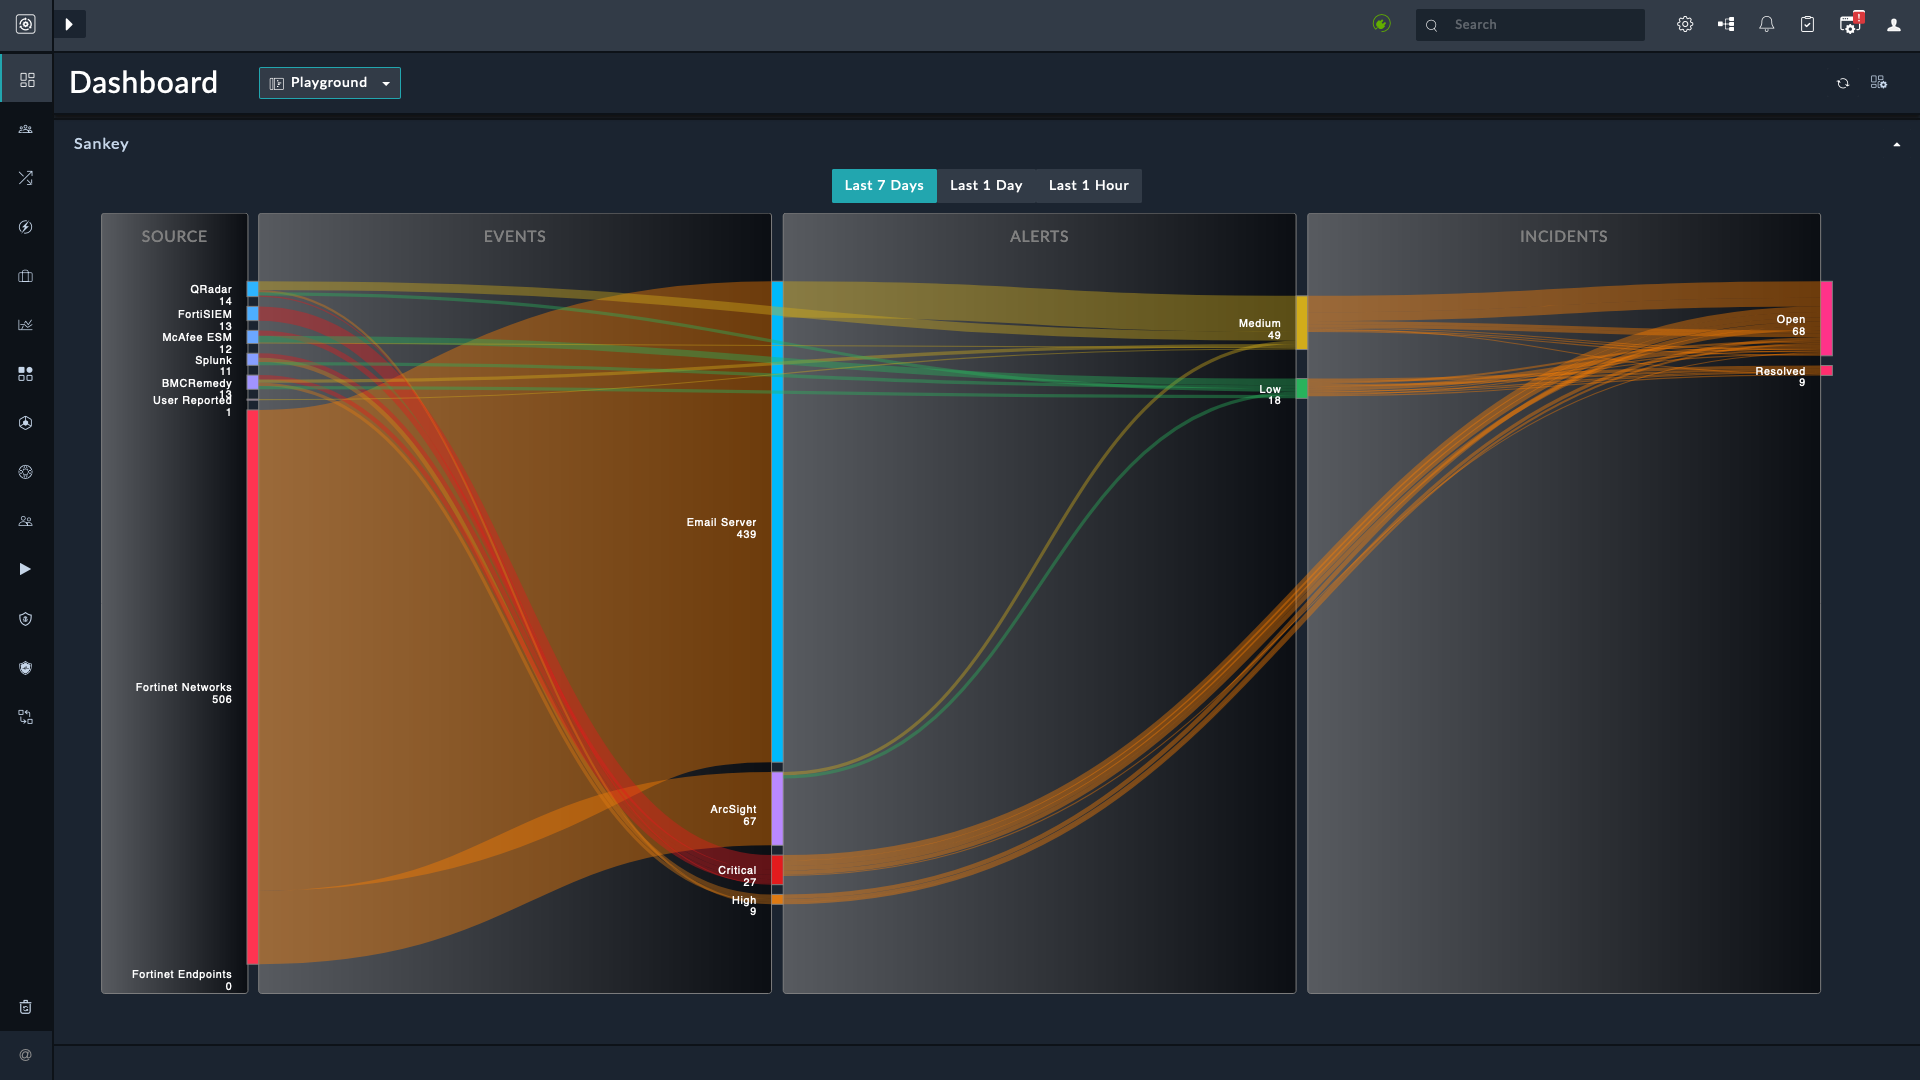
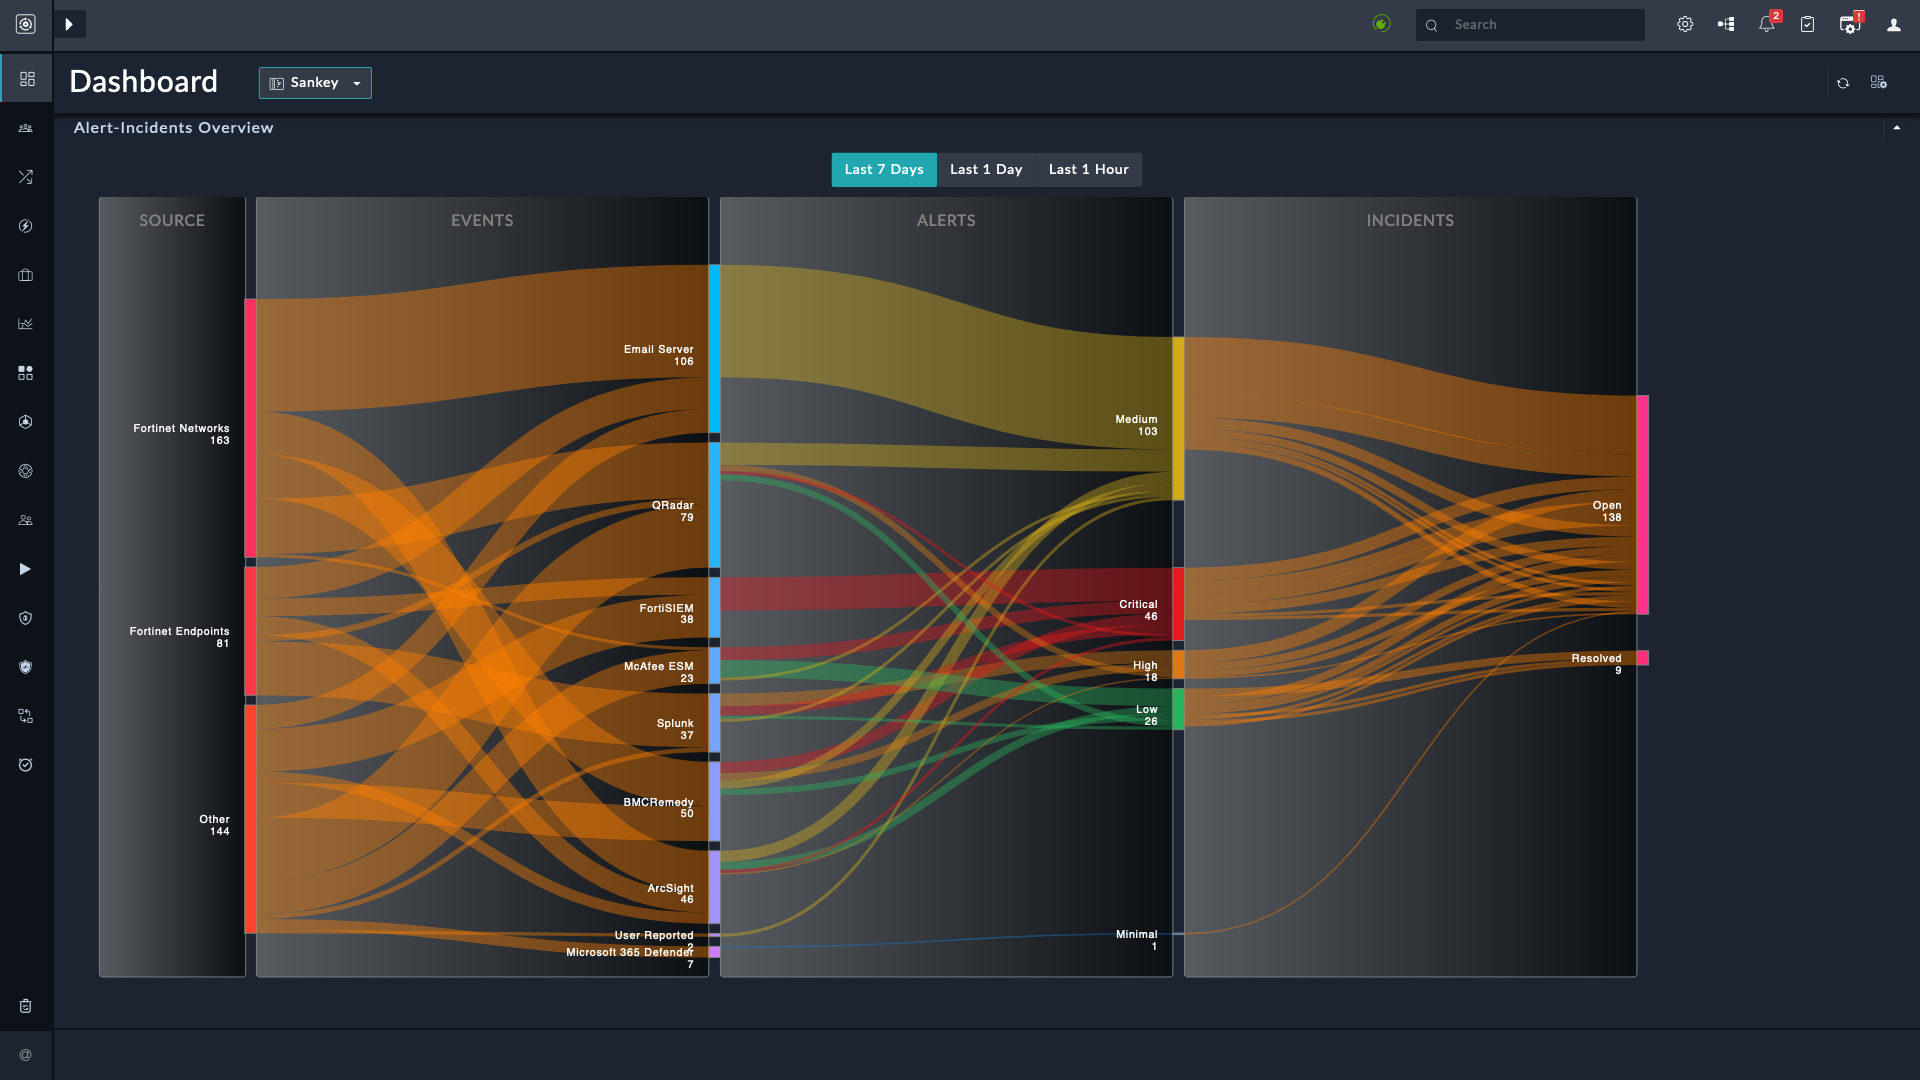
Incorporated feedback - The custom json contains data to generate the Sankey chart shown in the doc - Fixed setup section to better describe the fields - Updated screenshots - Detailed external source json

diff --git a/docs/setup.md b/docs/setup.md
@@ -12,45 +12,142 @@
 
 A Sankey chart needs a source node and a target node. It then represents the flow from the source node to the target node using paths known as links. Following table helps customize the **SOC Overview Sankey** widget:
 
-| Fields                | Description                                                                         |
-|-----------------------|-------------------------------------------------------------------------------------|
-| Title                 | Specify a title for the SOC Overview Sankey widget as it appears on the dashboard.  |
-| Resource              | Select the module whose Sankey representation is to be displayed.                   |
-| Filter Criteria       | Define the filter criteria using which to filter the data retrieved by this widget. |
-| Source Nodes          | Select the field to render source nodes.                                            |
-| Target Nodes          | Select the picklist to render target nodes.                                         |
-| Relationship Resource | Select the relationship module to get picklist details for relationship nodes.      |
-| Relationship Nodes    | Select the picklist to render relationship nodes.                                   |
-| External Source JSON  | Enter JSON data to render sources which generates an events.                        |
+| Fields                | Description                                                                                                                                    |
+|-----------------------|------------------------------------------------------------------------------------------------------------------------------------------------|
+| Title                 | Specify a title for the SOC Overview Sankey widget as it appears on the dashboard.                                                             |
+| Resource              | Select the FortiSOAR&trade; module whose Sankey representation is to be displayed. For example, **_Alerts_**.                                  |
+| Filter Criteria       | Define the filter criteria using which to filter the data retrieved by this widget.                                                            |
+| Source Nodes          | Select the a field, within the **_Resource_** module, to render source nodes. Only the fields of type **_text_** are listed.                   |
+| Target Nodes          | Select the picklist, within the **_Resource_** module, to render target nodes. Only the fields of type **_picklist_** are listed.              |
+| Relationship Resource | Select the FortiSOAR&trade; module, which has a relationship to the module selected in the **Resource** field. For example, **_Incidents_** |
+| Relationship Nodes    | Select the picklist, within the **_Relationship Resource_** module, to render target nodes. Only the fields of type **_picklist_** are listed. |
+| External Source JSON  | Enter JSON data to render custom sources that generate events.                                                                                 |
 
 ## External Source JSON format
 
-Here JSON object requires 2 array properties, **`Nodes`** and **`Links`**. Value in **`Nodes`** act as a *`Source`* node for the module selected in the **Resource** field.
+Here the JSON object requires 2 array properties, **`Nodes`** and **`Links`**. Value in **`Nodes`** act as a *`Source`* node for the module selected in the **Resource** field.
+
+When building links for the Sankey charts using *`External Source JSON`* field consider the following:
+
+- The source contains the various sources of the records being rendered and is listed under *`"nodes"`* object in JSON. For example, Fortinet Networks, Fortinet Endpoints, or others.
+
+- For the *`"links"`* object:
+    - *`"source"`* should contain one of the *`"nodes"`*
+    - *`"target"`* should contain one of the **Source Nodes** specified when configuring the widget
+    - *`"total"`* contains the number of records. For example, if there were `71` alerts from Fortinet Networks with *Source* as **Email Server**, enter `71` for the *`"total"`* object
 
 Following is a sample JSON that can be entered in the **External Source JSON** field.
 
 ```JSON
 {
-    "nodes": [
-        {
-            "name": "Fortinet Networks"
-        },
-        {
-            "name": "Fortinet Endpoints"
-        }
-    ],
-    "links": [
-        {
-            "source": "Fortinet Networks",
-            "target": "Email Server",
-            "total": 439
-        },
-        {
-            "source": "Fortinet Networks",
-            "target": "ArcSight",
-            "total": 67
-        }
-    ]
+  "nodes": [
+    {
+      "name": "Fortinet Networks"
+    },
+    {
+      "name": "Fortinet Endpoints"
+    },
+    {
+      "name": "Other"
+    }
+  ],
+  "links": [
+    {
+      "source": "Fortinet Networks",
+      "target": "Email Server",
+      "total": 71
+    },
+    {
+      "source": "Fortinet Networks",
+      "target": "ArcSight",
+      "total": 27
+    },
+    {
+      "source": "Fortinet Networks",
+      "target": "BMCRemedy",
+      "total": 28
+    },
+    {
+      "source": "Fortinet Networks",
+      "target": "QRadar",
+      "total": 35
+    },
+    {
+      "source": "Fortinet Networks",
+      "target": "McAfee ESM",
+      "total": 2
+    },
+    {
+      "source": "Fortinet Endpoints",
+      "target": "Email Server",
+      "total": 20
+    },
+    {
+      "source": "Fortinet Endpoints",
+      "target": "FortiSIEM",
+      "total": 11
+    },
+    {
+      "source": "Fortinet Endpoints",
+      "target": "ArcSight",
+      "total": 12
+    },
+    {
+      "source": "Fortinet Endpoints",
+      "target": "QRadar",
+      "total": 4
+    },
+    {
+      "source": "Fortinet Endpoints",
+      "target": "Splunk",
+      "total": 34
+    },
+    {
+      "source": "Other",
+      "target": "Email Server",
+      "total": 15
+    },
+    {
+      "source": "Other",
+      "target": "FortiSIEM",
+      "total": 27
+    },
+    {
+      "source": "Other",
+      "target": "ArcSight",
+      "total": 7
+    },
+    {
+      "source": "Other",
+      "target": "BMCRemedy",
+      "total": 22
+    },
+    {
+      "source": "Other",
+      "target": "QRadar",
+      "total": 40
+    },
+    {
+      "source": "Other",
+      "target": "McAfee ESM",
+      "total": 21
+    },
+    {
+      "source": "Other",
+      "target": "Splunk",
+      "total": 3
+    },
+    {
+      "source": "Other",
+      "target": "Microsoft 365 Defender",
+      "total": 7
+    },
+    {
+      "source": "Other",
+      "target": "User Reported",
+      "total": 2
+    }
+  ]
 }
 ```
 Following image shows the Sankey chart with **External Source JSON** field populated with the sample JSON.

diff --git a/README.md b/README.md
@@ -12,7 +12,9 @@
 
 ## Overview
 
-The FortiSOAR&trade; Overview Sankey widget helps visualize the flow between nodes in a directed acyclic network. Sankey diagrams are a data visualization technique or flow diagram that emphasizes flow, movement, or change from one state to another.The width of the arrows is proportional to the flow rate of the depicted extensive property.
+The FortiSOAR&trade; Overview Sankey widget helps visualize the flow between nodes in a directed acyclic network. Sankey diagrams are a data visualization technique or flow diagram that emphasizes flow, movement, or change from one state to another. The width of the arrows is proportional to the flow rate of the depicted extensive property.
+
+![A dashboard with a Sankey chart](./docs/res/sankey-with-custom-data.png)
 
 A Sankey chart widget can be a valuable visualization tool in FortiSOAR for illustrating the flow of data or processes between different stages. In FortiSOAR&trade;, they can help represent the flow of security incidents, alerts, or data through various automated processes:
 
@@ -36,9 +38,7 @@ A Sankey chart widget can be a valuable visualization tool in FortiSOAR for illu
    - Customize the Sankey chart to display key performance indicators (KPIs) and metrics relevant to the FortiSOAR&trade;'s goals, such as incident resolution time, automation efficiency, or alert response times.
 
 8. **Real-time Monitoring:**
-   - Integrate the Sankey chart into a real-time monitoring dashboard within FortiSOAR to provide FortiSOAR&trade; analysts with a dynamic and up-to-date view of the security operations flow.
-
-When implementing a Sankey chart widget in FortiSOAR, ensure that it supports dynamic updates and real-time data feeds to provide a current and accurate representation of the FortiSOAR&trade; workflow. Additionally, customize the chart to meet the specific needs and processes of your FortiSOAR&trade; environment.
+   - Integrate the Sankey chart into a real-time monitoring dashboard within FortiSOAR&trade; to provide analysts with a dynamic and up-to-date view of the security operations flow.
 
 | [Installation](./docs/setup.md#installation) | [Configuration](./docs/setup.md#configuration) | [Usage](./docs/usage.md) |
 |----------------------------------------------|------------------------------------------------|--------------------------|

diff --git a/docs/usage.md b/docs/usage.md
@@ -5,21 +5,21 @@
 
 The **SOC Overview Sankey** widget helps visualize relationship data as per behavior. For example, viewing the data as per status of related incidents of alerts group by source and severity.
 
-You can add this view to a dashboard, or report.
+You can add this view to a dashboard, or a report.
 
 ## Visualize Relationship Data for a Preset Interval
 
-You can select from following options:
+- You can select from following options:
 
-- 7 Days
-- 1 Day
-- 1 Hour
+    - 7 Days
+    - 1 Day
+    - 1 Hour
 
-    ![](./res/sankey-chart-time-intervals.png)
-<!-- 
-- Configure the widget by selecting source node, target node, relationship node and setting filters to retrieve the required data.
+        ![](./res/sankey-chart-time-intervals.png)
 
-- The links colors will be picked as per picklist items configuration. -->
+- Configure the widget by selecting source node, target node, relationship node, and setting filters to retrieve the required data.
+
+- The links colors are picked as per picklist items configuration.
 
 ## SOC Overview Sankey Widget
 
@@ -43,7 +43,7 @@ You can select from following options:
 
     ![](./res/sankey-edit-04.png)
 
-6. Select the text field to be grouped for source nodes, in the **Source Nodes** field.
+6. Select the field to group data for source nodes, in the **Source Nodes** field.
 
     ![](./res/sankey-edit-05.png)
 
@@ -69,11 +69,11 @@ The following image displays a **SOC Overview Sankey** widget based on an exampl
 
 ![Displaying the SOC Overview Sankey Chart on a Dashboard](./res/soc-overview-sankey.png)
 
-1. Click **1 Day** to display data for the last 1 day.
+1. Click **7 Days** to display data for the last 7 days. This option is a default selection for the initial rendering.
 
-2. Click **1 Hour** to display data for the last 1 Hour.
+2. Click **1 Day** to display data for the last 1 day.
 
-3. Click **7 Days** to display data for the last 7 days. This option is a default selection for the initial rendering.
+3. Click **1 Hour** to display data for the last 1 Hour.
 
 <table>
     <th>NOTE</th>
